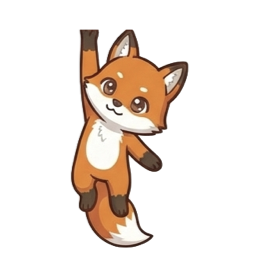
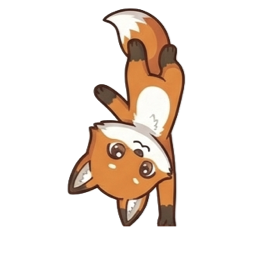
Add files via upload
桌宠基本功能已完成

Changed region(s): [[0.25, 0.0312, 0.75, 0.9688]]

diff --git a/pet_entity.py b/pet_entity.py
@@ -4,7 +4,7 @@ import traceback  # 用于打印真实报错
 import time
 from PyQt5.QtWidgets import QLabel, QMainWindow, QApplication
 from PyQt5.QtCore import QTimer, Qt
-from PyQt5.QtGui import QPixmap, QTransform  # 修复了 QTransform 的导入
+from PyQt5.QtGui import QPixmap, QTransform, QPainter  # 修复了 QTransform 的导入
 from conf import *
 
 
@@ -15,6 +15,16 @@ class FoxPet(QMainWindow):
         self.setAttribute(Qt.WA_TranslucentBackground)
 
         self.image_label = QLabel(self)
+
+        # ==========================================
+        # 【地形勘测：缓存屏幕可用尺寸】
+        # 使用 availableGeometry() 自动避开任务栏！
+        screen_geo = QApplication.primaryScreen().availableGeometry()
+        self.screen_width = screen_geo.width()
+        self.screen_height = screen_geo.height()
+        # 地板的 Y 坐标直接就是 可用高度 - 狐狐身高，再也不用算任务栏了！
+        self.floor_y = self.screen_height - PET_SIZE
+        # ==========================================
 
         self.current_state = None
         self.tick_count = 0  # 动画变速齿轮
@@ -46,7 +56,7 @@ class FoxPet(QMainWindow):
             'WALK':             {'frames': ['walk_01.png', 'stand_two_foot.png', 'walk_02.png', 'stand_two_foot.png'],
                                  'speed': 10, 'loop': True, 'duration': (1.0, 5.0)},
             'GO_TO_WALL': {'frames': ['walk_01.png', 'walk_02.png'], 'speed': 3, 'loop': True, 'duration': (99, 99)},
-
+            'JUMP_TO_WALL': {'frames': ['jump_to_wall.png'], 'speed': 99, 'loop': False, 'duration': (99, 99)},
             # 墙壁区 (不倒立)
             'CLIMB_UP': {'frames': ['climb_01.png', 'climb_02.png'], 'speed': 6, 'loop': True, 'duration': (1.0, 8.0)},
             'CLIMB_DOWN': {'frames': ['climb_01.png', 'climb_02.png'], 'speed': 6, 'loop': True, 'duration': (1.0, 8.0)},
@@ -73,11 +83,13 @@ class FoxPet(QMainWindow):
         # 格式 -> '当前状态': {'下一个状态A': 权重, '下一个状态B': 权重}
         self.transitions = {
             # 地面区
-            'IDLE':             {'STAND_TWO_FOOT': 40, 'WALK': 30, 'BLINK': 10, 'GO_TO_WALL': 20},  # 发呆完：大概率去溜达，小概率眨眼
+            #'IDLE':             {'STAND_TWO_FOOT': 30, 'WALK': 30, 'BLINK': 10, 'GO_TO_WALL': 15, 'JUMP_TO_WALL':15},  # 发呆完：大概率去溜达，小概率眨眼
+            'IDLE': {'STAND_TWO_FOOT': 0, 'WALK': 50, 'BLINK': 0, 'GO_TO_WALL': 0, 'JUMP_TO_WALL': 50},#test
             'BLINK':            {'IDLE': 100},
             'STAND_TWO_FOOT':   {'IDLE': 70, 'WALK': 30},  # 站完：大概率继续发呆，小概率走动
             'WALK':             {'IDLE': 60, 'STAND_TWO_FOOT': 40},  # 走完：停下来发呆或站立
             'LAND':             {'IDLE': 100},  # 落地后：100% 必定进入发呆
+            #'GO_TO_WALL':       {'CLIMB_UP': 100},
             # 'SLEEP': {'IDLE': 100}  # 睡醒后：100% 必定进入发呆
 
             # 墙壁单行道
@@ -90,10 +102,18 @@ class FoxPet(QMainWindow):
             'CEILING_IDLE': {'CEILING_WALK': 70, 'FALL': 30},
             'CEILING_WALK': {'CEILING_IDLE': 100},
         }
-        self.change_state('IDLE')
+        #self.change_state('FALL')
 
-        self.move(500, 500)
+        # ==========================================
+        # 【狐狐出场：动态空投坐标计算】
+        spawn_x = int(self.screen_width * 0.5 - PET_SIZE / 2)
+        spawn_y = int(-self.screen_height * 0.1)
+
+        self.move(spawn_x, spawn_y)
         self.show()
+
+        self.change_state('FALL')
+        # ==========================================
 
         self.timer = QTimer()
         self.timer.timeout.connect(self.update_loop)
@@ -101,11 +121,6 @@ class FoxPet(QMainWindow):
 
     def update_loop(self):
         try:
-            # 修复 2：拎起时依然要刷新动画，只是跳过物理计算
-            # if self.is_dragged:
-            #   self.animate()
-            #  return
-
             # ------ 【命运轮盘区】 抽签决定下一个state------
             if self.state_timer >= self.current_duration:
                 # 1. 查字典，看看当前状态接下来有哪些路可以走
@@ -122,25 +137,17 @@ class FoxPet(QMainWindow):
 
             # ------ 【物理引擎区】 ------
             if not self.is_dragged:
-                screen_width = QApplication.primaryScreen().geometry().width()
-                screen_height = QApplication.primaryScreen().geometry().height()
-                floor_y = screen_height - PET_SIZE - TASKBAR_HEIGHT
-
                 # ==========================================
                 # 【新增：终极防丢安全网 (虚空打捞)】
-                # 设定一个极其宽容的“异次元边界”（比如屏幕外 200 像素）
-                # 只要狐狐跨过了这条线，直接强制遣返！
-                if (self.y() > screen_height + WALL_OFFSET or
-                        self.y() < -WALL_OFFSET or
-                        self.x() < -WALL_OFFSET or
-                        self.x() > screen_width + WALL_OFFSET):
+                if (self.y() > self.screen_height * 1.2 or
+                        self.y() < -self.screen_height * 0.2 or
+                        self.x() < -self.screen_width * 0.2 or
+                        self.x() > self.screen_width * 1.2):
                     # 强行重置坐标到屏幕正中间的顶端
-                    self.move(int(screen_width / 2), 50)
-
+                    self.move(int(self.screen_width / 2), 50)
                     # 动能彻底清零，防止它带着刚才的惯性继续乱飞
                     self.dx = 0
                     self.dy = 0
-
                     # 强行切回掉落状态
                     self.change_state('FALL')
                     return  # 触发了打捞，这一帧后面的物理计算直接跳过，下班！
@@ -160,72 +167,88 @@ class FoxPet(QMainWindow):
                 # 3. 碰撞拦截与状态切换
                 # 真正的物理墙壁坐标（允许窗口边框超出屏幕外）
                 left_bound = -WALL_OFFSET
-                right_bound = screen_width - PET_SIZE + WALL_OFFSET
+                right_bound = self.screen_width - PET_SIZE + WALL_OFFSET
 
-                # A. 左右墙壁检测 (走路和掉落时吸墙)
-                if self.current_state in ['WALK', 'FALL', 'GO_TO_WALL']:
-                    if next_x <= left_bound and self.y() >= -200:
-                        next_x = left_bound  # 严防穿模
-                        # self.change_state('WALL_IDLE')
-                        self.is_facing_right = False  # 脸朝屏幕内
-                        # 结算任务：赶路来的就直接爬，否则就先挂着发呆
+                # ==========================================
+                # A. 左右墙壁物理碰撞 (坚决不混入AI逻辑)
+                # ==========================================
+                if self.current_state in ['WALK', 'FALL', 'GO_TO_WALL', 'JUMP_TO_WALL']:
+
+                    # 撞左墙
+                    if next_x < left_bound and self.y() > -self.screen_height * 0.2:
+                        next_x = left_bound
+
+                        self.dx = 0  # 【必须踩死刹车！】
+                        self.dy = 0
+                        self.is_facing_right = False  # 【修正】：左墙脸朝右！
+
                         if self.current_state == 'GO_TO_WALL':
                             self.change_state('CLIMB_UP')
                         else:
                             self.change_state('WALL_IDLE')
 
-                    elif next_x >= right_bound and self.y() >= -200:
+                    # 撞右墙
+                    elif next_x > right_bound and self.y() > -self.screen_height * 0.2:
                         next_x = right_bound
-                        self.change_state('WALL_IDLE')
-                        self.is_facing_right = True
+
+                        self.dx = 0  # 【必须踩死刹车！】
+                        self.dy = 0
+                        self.is_facing_right = True  # 【修正】：右墙脸朝左！
+
                         if self.current_state == 'GO_TO_WALL':
                             self.change_state('CLIMB_UP')
                         else:
                             self.change_state('WALL_IDLE')
-                    # 闲逛时的随机掉头（赶路和掉落时绝对不能掉头！）
-                    elif self.current_state == 'WALK' and random.random() < 0.005:
+
+                    # 闲逛时的随机掉头
+                    elif self.current_state == 'WALK' and random.random() < PROB_TURN_AROUND :
                         self.dx = -self.dx
                         self.is_facing_right = (self.dx > 0)
                         self.animate()
 
-                     # --- 寻路区 ---
-                    elif self.current_state == 'GO_TO_WALL':
-                        # self.dy = 0
-                        # 判断离哪边墙更近
-                        if self.x() < screen_width / 2:
-                            self.dx = -3  # 往左赶路
-                            self.is_facing_right = False
-                        else:
-                            self.dx = 3  # 往右赶路
-                            self.is_facing_right = True
+                # ==========================================
+                # A+. 独立的自动寻路 AI 系统 (清清爽爽)
+                # ==========================================
+                if self.current_state == 'GO_TO_WALL':
+                    if self.x() < self.screen_width / 2:
+                        self.dx = -SPEED_RUN  # 往左赶路
+                        self.is_facing_right = False
+                    else:
+                        self.dx = SPEED_RUN  # 往右赶路
+                        self.is_facing_right = True
 
+                # ==========================================
                 # B. 天花板边缘防穿模 (倒立走)
+                # ==========================================
                 elif self.current_state == 'CEILING_WALK':
                     if next_x <= 0 and self.dx < 0:
                         self.dx = -self.dx
                         self.is_facing_right = True
-                    elif next_x >= screen_width - PET_SIZE and self.dx > 0:
+                    elif next_x >= self.screen_width - PET_SIZE and self.dx > 0:
                         self.dx = -self.dx
                         self.is_facing_right = False
-                    elif random.random() < 0.008:
+                    elif random.random() < PROB_CEILING_DROP:
                         self.change_state('CEILING_IDLE')
 
-                # C. 上下极限防穿模 (砸地板 / 爬到顶 / 爬到底)
-                if next_y >= floor_y:
-                    next_y = floor_y
-                    self.dy = 0  # 消除往下掉的趋势
-                    # 只有从天上掉下来，才加摩擦力停住！走路的 dx 绝对不能清零！
+                # ==========================================
+                # C. 上下极限防穿模 (砸地板 / 爬到顶)
+                # ==========================================
+                if next_y >= self.floor_y and self.dy >= 0:
+                    next_y = self.floor_y
+                    self.dy = 0
                     if self.current_state == 'FALL':
                         self.dx = 0
                         self.change_state('LAND')
                     elif self.current_state == 'CLIMB_DOWN':
+                        self.change_state('LAND')
+                    elif self.current_state == 'JUMP_TO_WALL':
                         self.change_state('LAND')
 
                 elif next_y <= 0 and self.current_state == 'CLIMB_UP':
                     next_y = 0
                     self.change_state('CEILING_ENTER')
 
-                # 4. 【最终批准】：所有状态，统一在最后执行一次位移！
+                # 4. 【最终批准】：统一位移！
                 self.move(int(next_x), int(next_y))
 
             # 节拍器跳动
@@ -305,6 +328,9 @@ class FoxPet(QMainWindow):
                 self.frame_index += 1
 
     def change_state(self, new_state):
+        # 实时打印：旧状态 -> 新状态
+        print(f"【状态切换】{self.current_state} -> {new_state}")
+
         # 状态切换的唯一指定通道（守门员）
         # 只有当新状态和现在的状态不一样时，才执行切换
         if self.current_state != new_state:
@@ -339,15 +365,15 @@ class FoxPet(QMainWindow):
 
             # 【每次切状态，默认关闭倒立，防止从天花板掉下来还头朝下】
             self.is_upside_down = False
-            self.dy = 0
+            #self.dy = 0
 
             # 1. 墙壁区 (只管上下，绝不倒立)
             if new_state == 'CLIMB_UP':
                 self.dx = 0
-                self.dy = -2  # 负数是向上爬
+                self.dy = -SPEED_CLIMB  # 负数是向上爬
             elif new_state == 'CLIMB_DOWN':
                 self.dx = 0
-                self.dy = 2  # 正数是向下滑 (你要求的，不翻转！)
+                self.dy = SPEED_CLIMB  # 正数是向下滑 (你要求的，不翻转！)
             elif new_state == 'WALL_IDLE':
                 self.dx = 0
                 self.dy = 0
@@ -357,7 +383,7 @@ class FoxPet(QMainWindow):
                 self.is_upside_down = True  # 【核心】：开启倒立！
                 self.dy = 0
                 if new_state == 'CEILING_WALK':
-                    self.dx = random.choice([-2, 2])
+                    self.dx = random.choice([-SPEED_CEILING, SPEED_CEILING])
                     self.is_facing_right = (self.dx > 0)
                 else:
                     self.dx = 0
@@ -368,10 +394,22 @@ class FoxPet(QMainWindow):
                 self.dx = 0
             elif new_state == 'WALK':
                 # 动态动作：起步瞬间，随机决定往左走还是往右走！
-                self.dx = random.choice([-2, 2])
+                self.dx = random.choice([-SPEED_WALK, SPEED_WALK])
                 # 根据速度的正负，立刻决定狐狐的朝向
                 self.is_facing_right = (self.dx > 0)
+            # ==========================================
+            # 【新增：起跳上墙的专属弹射器】
+            elif new_state == 'JUMP_TO_WALL':
+                self.dy = -SPEED_JUMP_Y  # 强力对抗重力，起飞！
 
+                # 雷达索敌：判断哪边墙近，直接锁定轰炸！
+                if self.x() < self.screen_width / 2:
+                    self.dx = -SPEED_JUMP_X
+                    self.is_facing_right = False
+                else:
+                    self.dx = SPEED_JUMP_X
+                    self.is_facing_right = True
+            # ==========================================
             # 顺便还可以把马上要用到的动画图立刻刷出来
             self.animate()
 

diff --git a/conf.py b/conf.py
@@ -5,15 +5,29 @@ import os
 # ==========================================
 REFRESH_RATE = 20                # 系统刷新率 (毫秒)，20ms = 1秒50帧
 DRAG_PAUSE_THRESHOLD = 0.15      # 拖拽停顿判定阈值 (秒)：抓着不动超过此时间，视为放弃投掷
-THROW_BOOST_X = 1.5              # 横向臂力放大器：决定左右甩的爆发力
+THROW_BOOST_X = 1.0              # 横向臂力放大器：决定左右甩的爆发力
 THROW_BOOST_Y = 1.5              # 纵向臂力放大器：决定上下甩的爆发力
 # ==========================================
 
+# ==========================================
+# 【新增：狐狐运动基因库 (速度与概率)】
+# ==========================================
+# --- 速度参数 (像素/帧) ---
+SPEED_WALK = 2          # 正常溜达的水平速度
+SPEED_RUN = 3           # 发现目标（比如寻墙）时的赶路速度
+SPEED_CLIMB = 4         # 爬墙的垂直速度 (数字越大爬得越快)
+SPEED_CEILING = 2       # 天花板倒立漫步的速度
+SPEED_JUMP_X = 8        # 决定跳得有多远 (横向冲刺力)
+SPEED_JUMP_Y = 16       # 决定跳得有多高 (向上爆发力，必须足够大才能对抗重力)
+# --- AI 决策概率参数 ---
+PROB_TURN_AROUND = 0.005   # 地面漫步时，每帧随机掉头的概率 (0.5%)
+PROB_CEILING_DROP = 0.008  # 天花板漫步时，每帧随机停下发呆的概率
+# ==========================================
 GRAVITY = 1          # 重力稍微加大一点
-WALK_SPEED = 3       # 帧率高了，走路步伐就得调小，不然飞出去了
+#WALK_SPEED = 3       # 帧率高了，走路步伐就得调小，不然飞出去了
 
 PET_SIZE = 128          # 像素图大小
-TASKBAR_HEIGHT = 40     # 任务栏高度
+# TASKBAR_HEIGHT = 40     # 任务栏高度
 WALL_OFFSET = 48      # 角色挂在墙上减去的宽度
 
 BASE_DIR = os.path.dirname(os.path.abspath(__file__))
